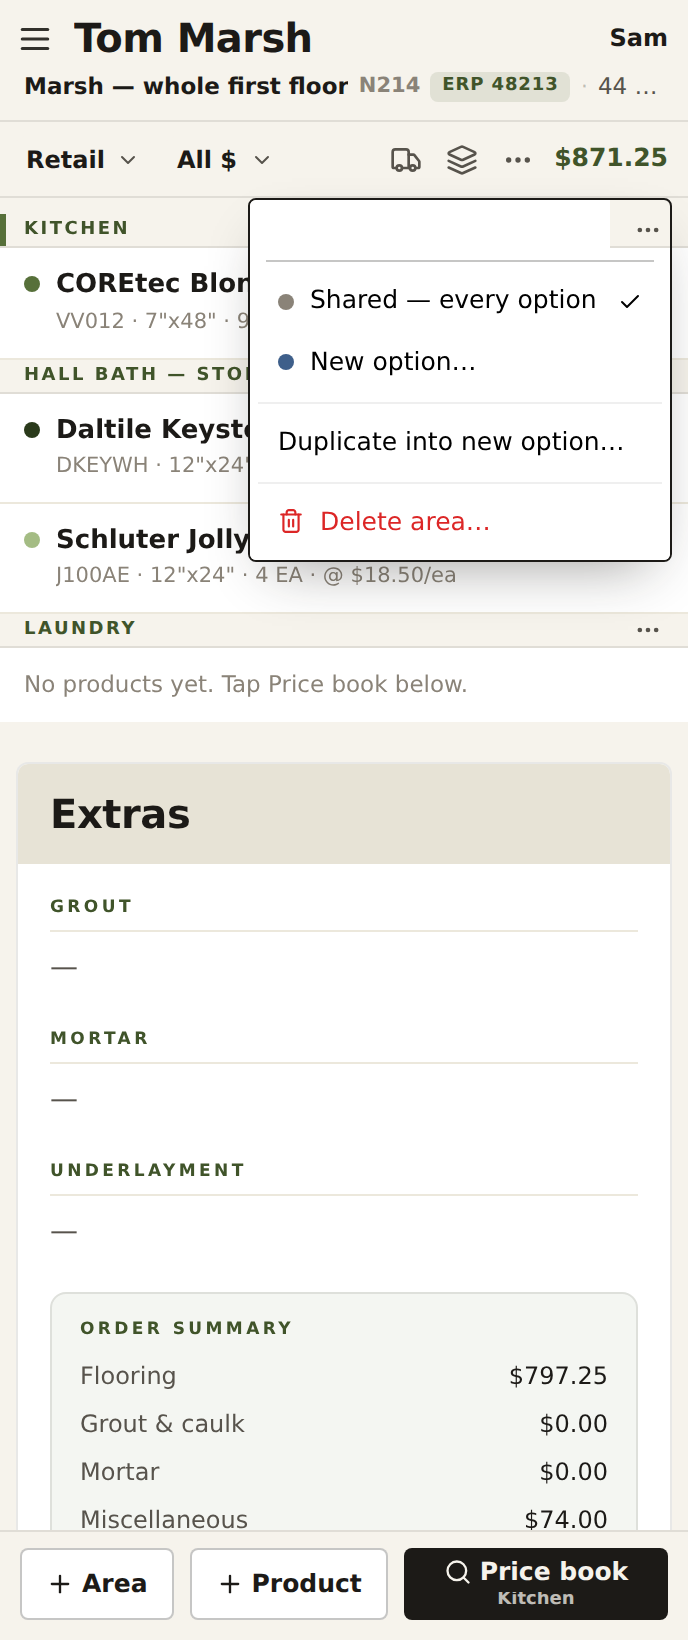
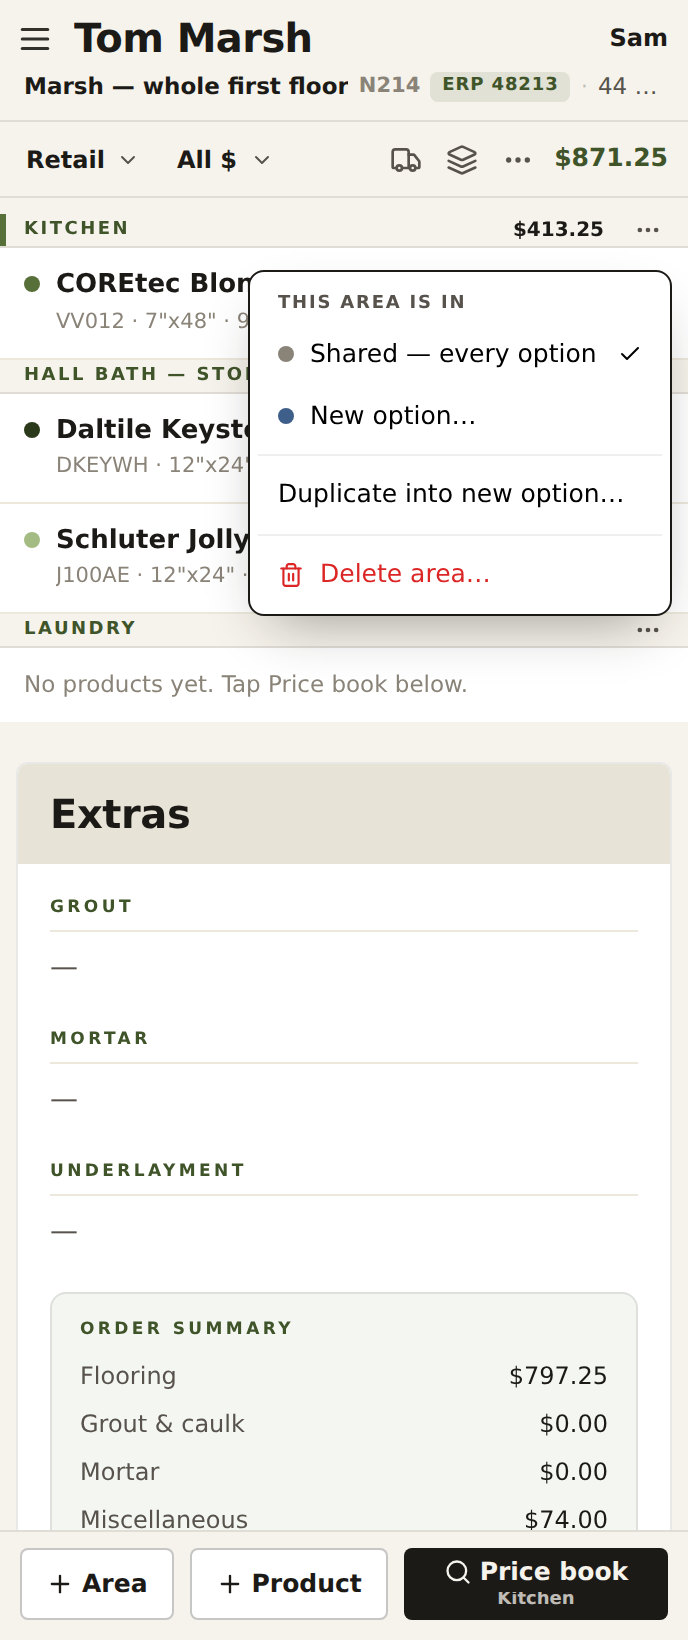
Phone area title: long-press opens no menu; ⋯ menu keeps its heading
Final-review fixes. Android fires contextmenu on a long-press — the same
hold that drags an area — so the phone title now swallows it (⋯ is the
phone's menu). The phone ⋯ opens the area menu at a point instead of
growing from the button, so "This area is in" shows instead of a blank
strip. check.mjs pins both (hold case; name case's heading hit-test).

Claude-Session: https://claude.ai/code/session_01Xve9GdjyDf1DVgrr8wGL8x

Changed region(s): [[0.3663, 0.1244, 0.9767, 0.4043], [0.7631, 0.2488, 0.8547, 0.311], [0.9157, 0.1555, 0.9767, 0.1866]]

diff --git a/src/App.jsx b/src/App.jsx
@@ -1916,8 +1916,10 @@ export default function App({ user, onSignOut }) {
                     })() : !isWide ? (
                     // Phone area title (spec 2026-10-02): one thin sticky line. Holding
                     // the line drags the area; the name and the buttons stay tappable.
+                    // Android fires contextmenu on a long-press — the same hold that drags
+                    // the area — so it opens nothing here; ⋯ is the phone's menu.
                     <div data-area-title onPointerDown={(e) => { if (!e.target.closest("input, button")) startAreaDrag(e, a.id, ai, 350); }}
-                      onContextMenu={(e) => { e.preventDefault(); setAreaMenu({ aid: a.id, x: e.clientX, y: e.clientY, clean: true }); }}
+                      onContextMenu={(e) => e.preventDefault()}
                       className="flex items-center gap-1.5 select-none"
                       style={{ position: "sticky", top: 0, zIndex: 5, height: 17, boxSizing: "border-box", background: "var(--ft-cream)", padding: "0 12px", borderBottom: "1px solid var(--ft-border)", ...(a.id === activeAreaId ? { boxShadow: "inset 3px 0 0 var(--ft-brand)" } : {}) }}>
                       <input ref={(el) => { if (el) areaRefs.current[a.id] = el; }} value={a.name} onChange={(e) => updArea(a.id, { name: e.target.value })} placeholder={`Area ${ai + 1}`}
@@ -1932,7 +1934,7 @@ export default function App({ user, onSignOut }) {
                       )}
                       <span className="flex-1" />
                       {areaTotal > 0 && <span className="ft-mono shrink-0" style={{ fontSize: 10, fontWeight: 800, lineHeight: 1.1 }}>{money(areaTotal)}</span>}
-                      <button tabIndex={-1} aria-label="Area options" title="Area options" onClick={(e) => { const r = e.currentTarget.getBoundingClientRect(); setAreaMenu({ aid: a.id, x: r.right - 212, y: r.bottom + 4, anchor: e.currentTarget, clean: true }); }}
+                      <button tabIndex={-1} aria-label="Area options" title="Area options" onClick={(e) => { const r = e.currentTarget.getBoundingClientRect(); setAreaMenu({ aid: a.id, x: r.right - 212, y: r.bottom + 4, clean: true }); }}
                         className="ft-noprint shrink-0 flex items-center justify-center text-slate-400" style={{ width: 32, height: 32, margin: "-8px -8px -8px 0" }}><MoreHorizontal size={14} /></button>
                     </div>
                     ) : (

diff --git a/.scratch/170_phone-clean-layout/ticket.md b/.scratch/170_phone-clean-layout/ticket.md
@@ -22,14 +22,15 @@ on the DOM per case, and saves a shot per case. `before/` is today's phone.
 
 Run with Vite up (`VITE_SUPABASE_URL=https://stub.supabase.co
 VITE_SUPABASE_ANON_KEY=stub npx vite --port 5199 --strictPort`), then
-`OUT_DIR=after node check.mjs`. Result: 23 PASS, 0 FAIL (`before/` had 17
+`OUT_DIR=after node check.mjs`. Result: 25 PASS, 0 FAIL (`before/` had 17
 FAIL; desktop passed both times).
 
 | Case | Shot | What it shows |
 |---|---|---|
 | top | `after/top.png` | Header A, thin area titles, type dots, empty-area copy |
 | scroll | `after/scroll.png` | The area you're in stays pinned under the header |
-| name | `after/name.png` | Tapping an area name edits it; ⋯ opens the area menu |
+| name | `after/name.png` | Tapping an area name edits it; ⋯ opens the area menu with its "This area is in" heading |
+| hold | `after/hold.png` | A long-press (Android contextmenu) on a title opens no menu |
 | sheet | `after/sheet.png` | The row sheet covers the header |
 | options | `after/options.png` | "2 options" opens ⋯; freight off is the amber struck truck |
 | unassigned | `after/unassigned.png` | Unassigned in amber, long names, $12,558.00 Builder total fits |
